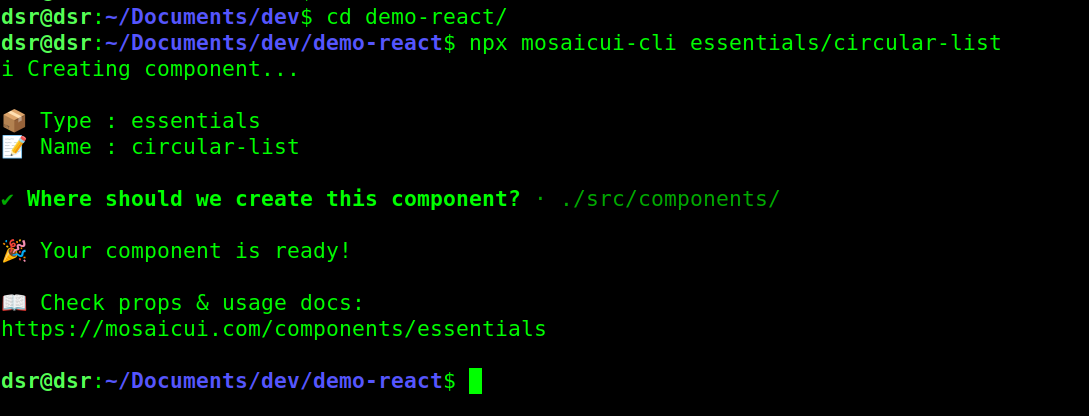
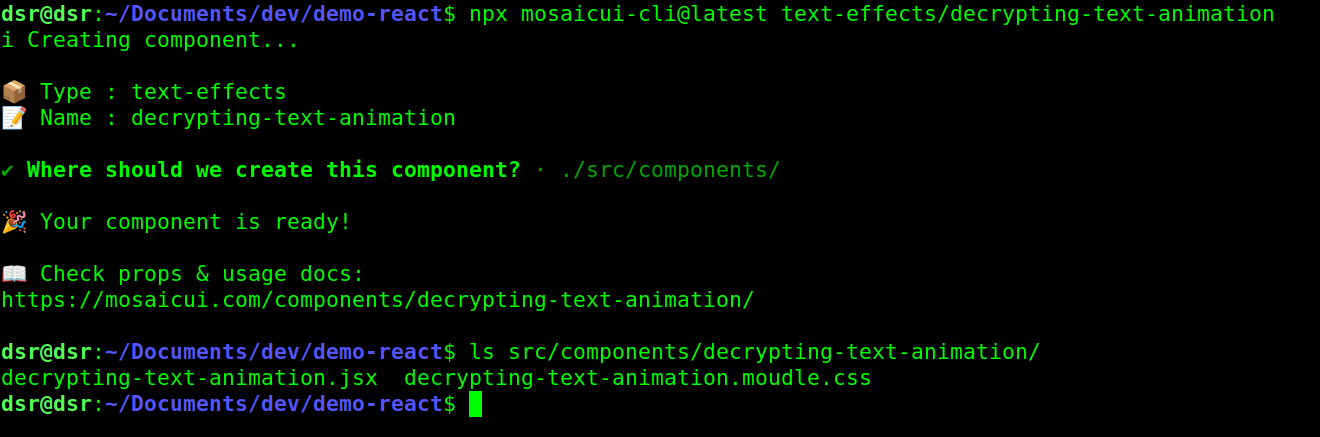
mosaicui-cli@0.0.5

diff --git a/messages.js b/messages.js
@@ -49,7 +49,7 @@ You can still use manual mode:
 ${componentLink}
 
 Then paste it into your project manually.
-`.trim());
+`);
 
 const createComponentFilesSuccess = (componentLink) => console.log(`
 🎉 Your component is ready!

diff --git a/readme.md b/readme.md
@@ -1,5 +1,6 @@
 # MosaicUI CLI
 Effortlessly add MosaicUI components to your React projects with a CLI.
+
 ![Demo](./assets/demo.png)
 
 ## Features
@@ -16,13 +17,13 @@ Effortlessly add MosaicUI components to your React projects with a CLI.
 Run the command from your project root directory (the folder that contains package.json).
 
 ```bash
-npx mosaicui-cli <component-type>/<component-name>
+npx mosaicui-cli@latest <component-type>/<component-name>
 ```
 
 Example:
 
 ```bash
-npx mosaicui-cli essentials/circular-list
+npx mosaicui-cli@latest essentials/circular-list
 ```
 
 ## Available Components